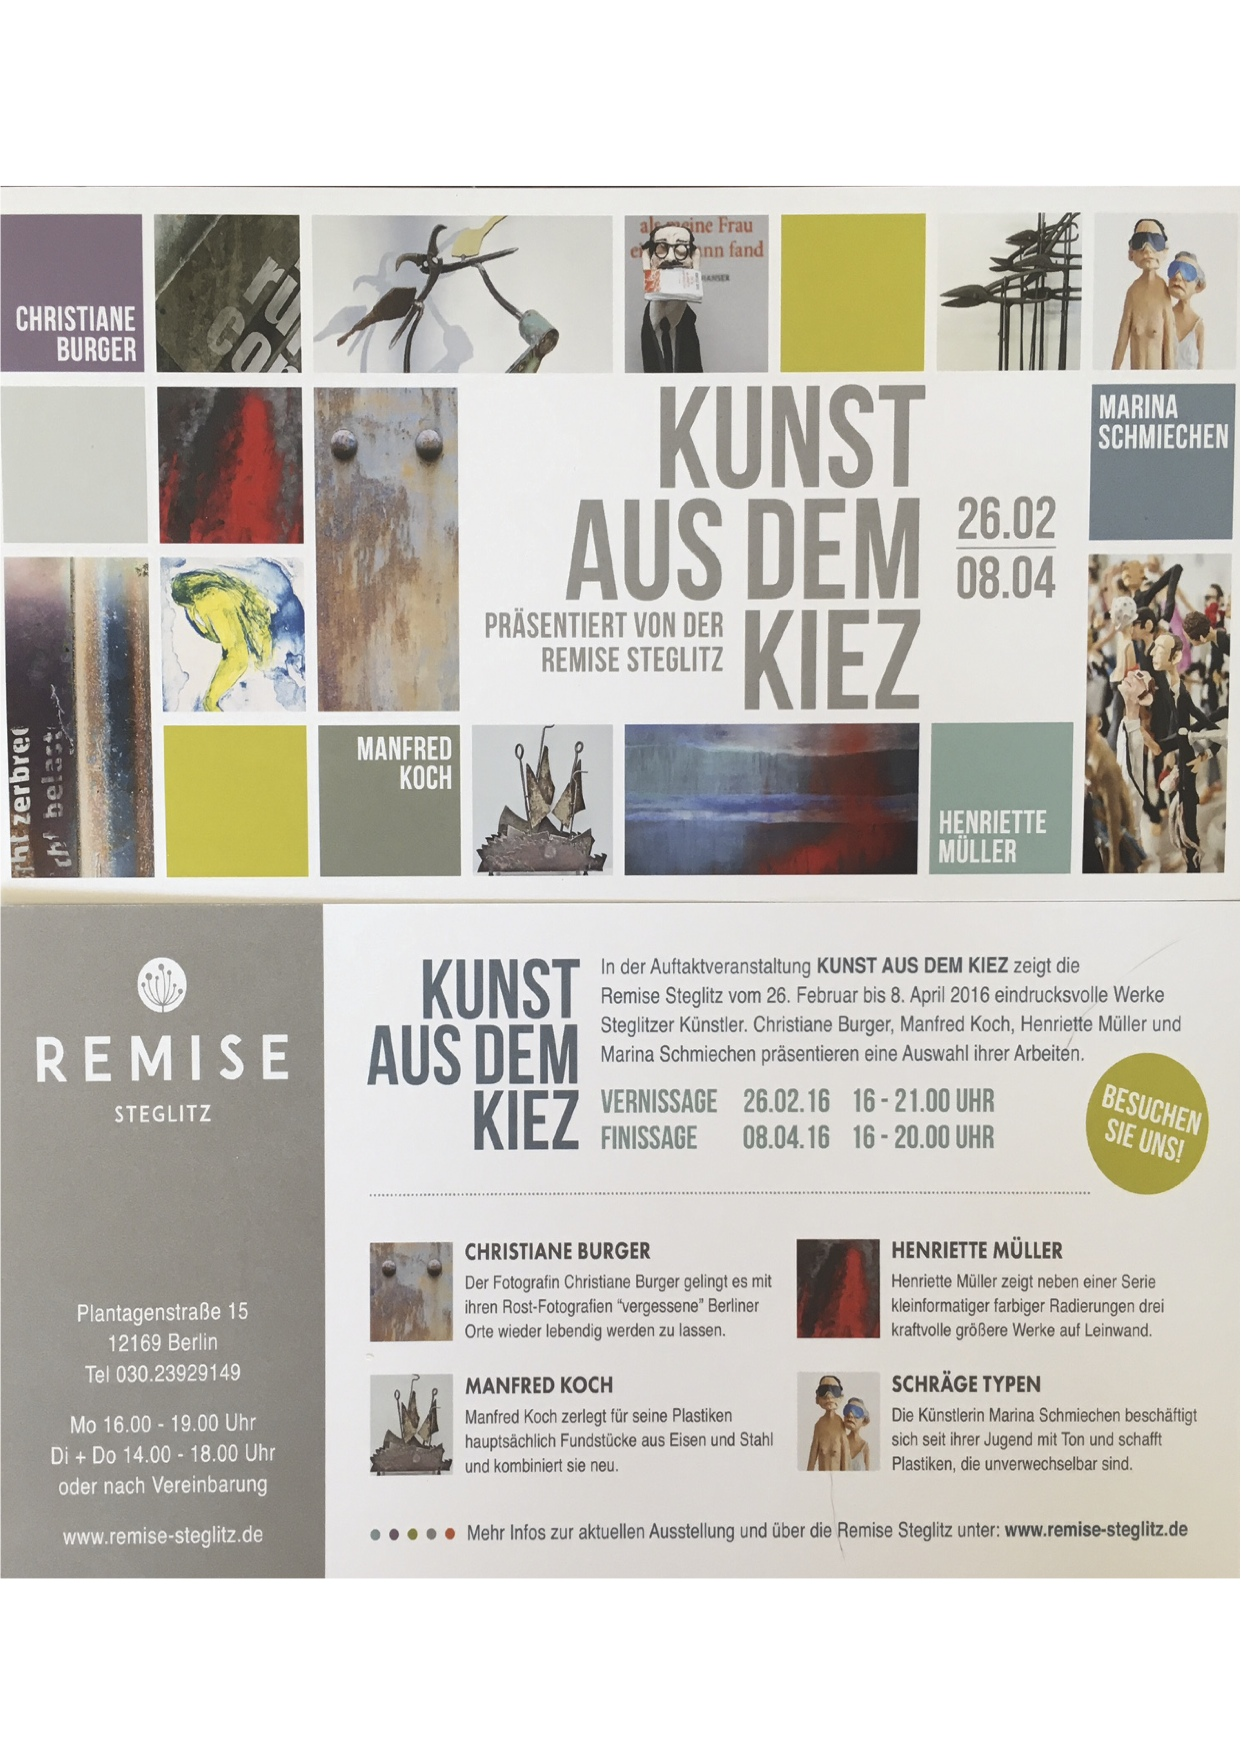
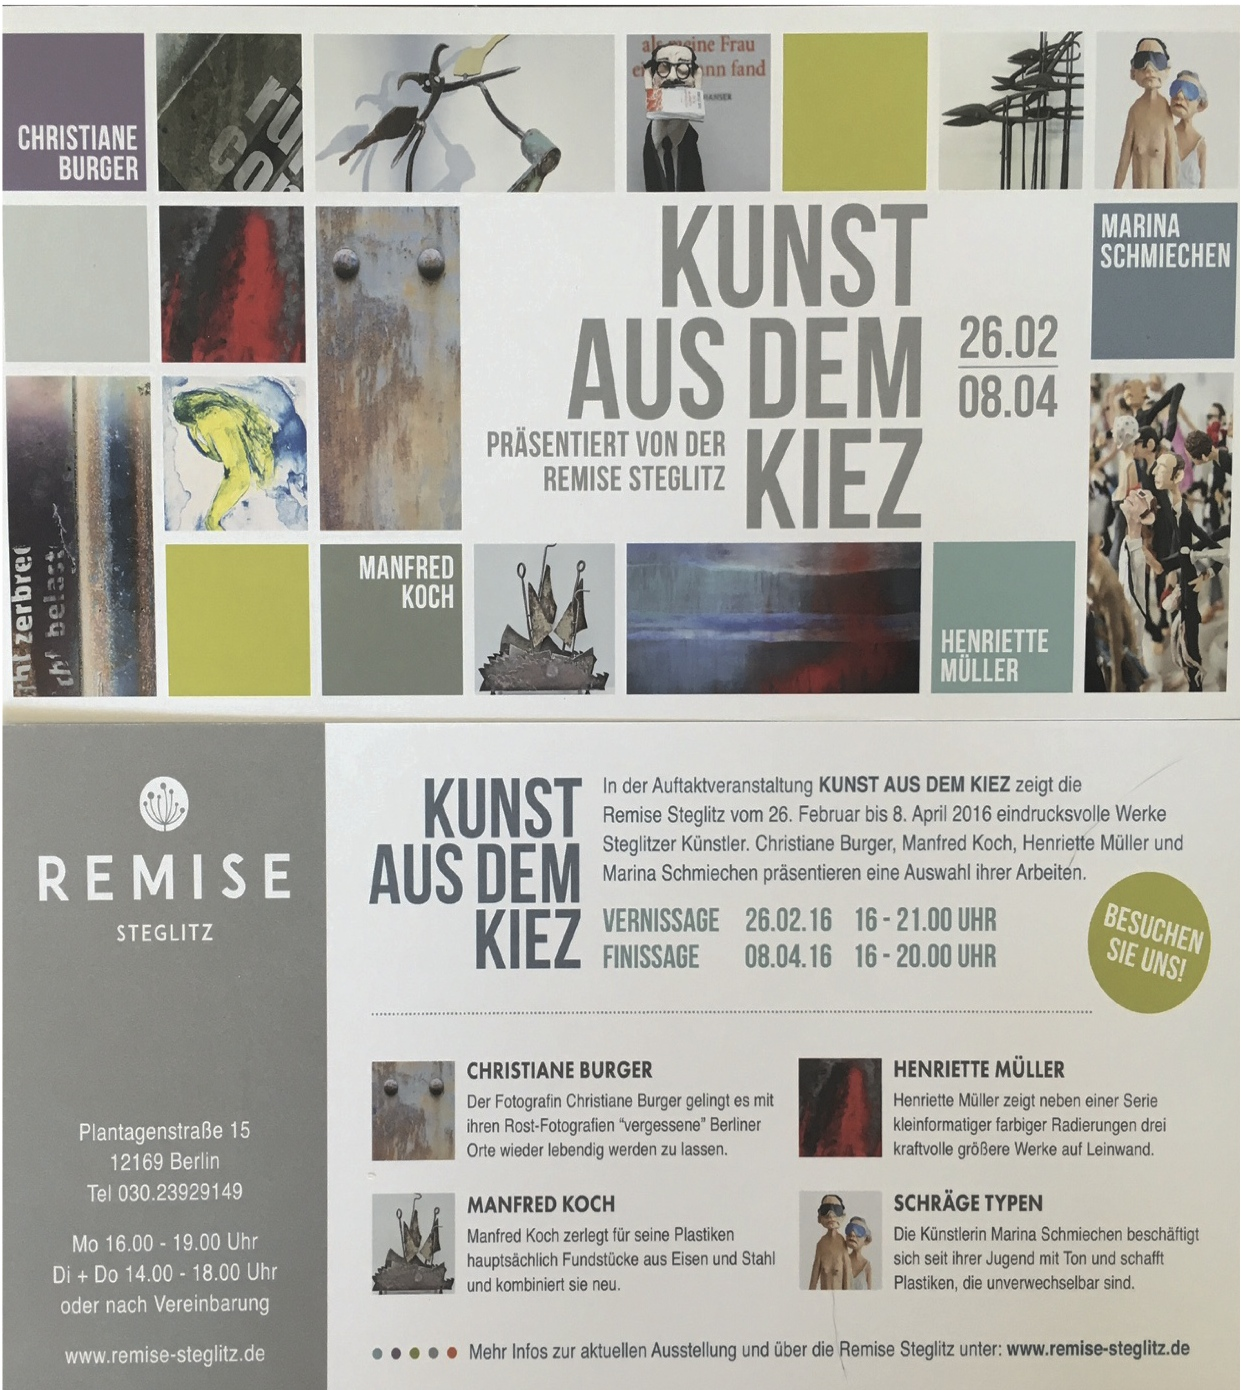
footer delete

diff --git a/media.html b/media.html
@@ -105,6 +105,15 @@
             </div>
         </div>
         <!-- /.row -->
+        <div class="row">
+            <div class="col-md-7">
+                    <img class="img-responsive" src="img_media/media/media2.jpg" alt="">
+            </div>
+            <div class="col-md-5">
+                <h3>Die Rheinpfalz</h3>
+                <h4>Januar 2016</h4>
+            </div>
+        </div>
 <br>
 
         <div class="row">
@@ -205,7 +214,7 @@
 <br>
         <div class="row">
             <div class="col-md-7">
-                <img class="img-responsive" src="img_media/media/media3.jpg" alt="">
+                <img class="img-responsive" src="img_media/media/media7.jpg" alt="">
             </div>
             <div class="col-md-5">
                 <h3>DIE WELT - Die Stylisten</h3>
